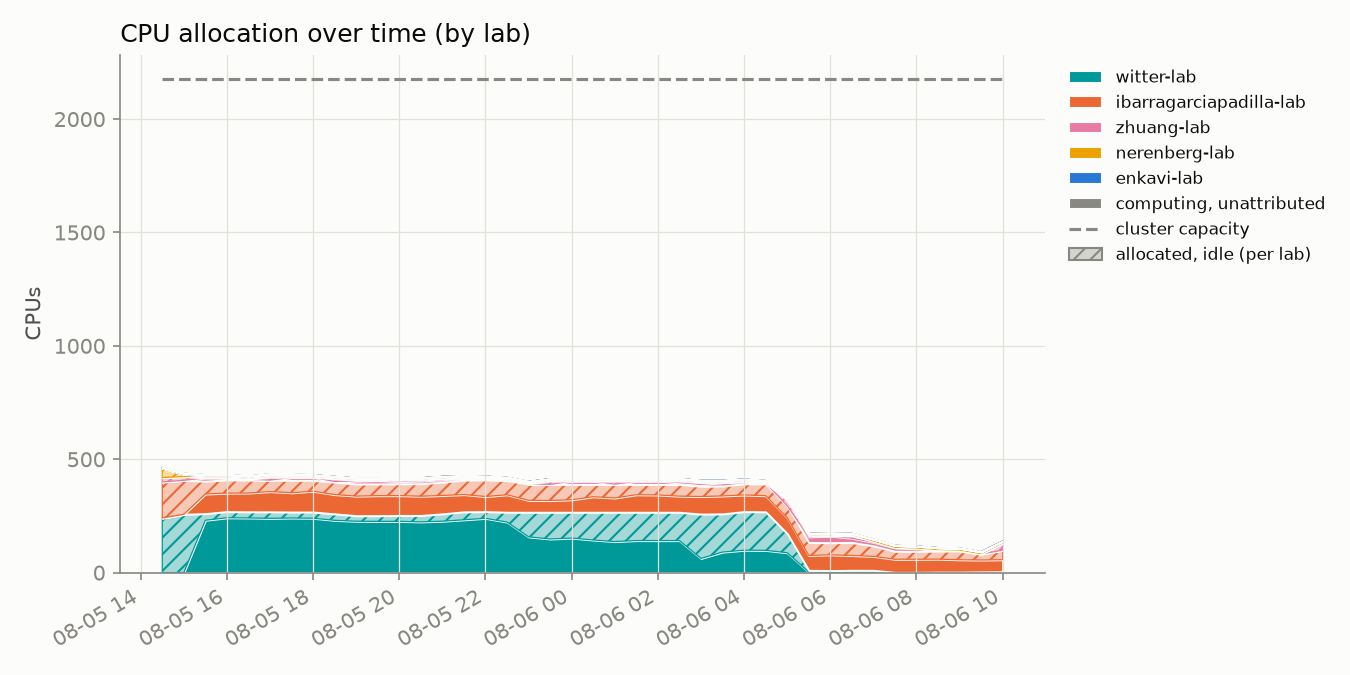
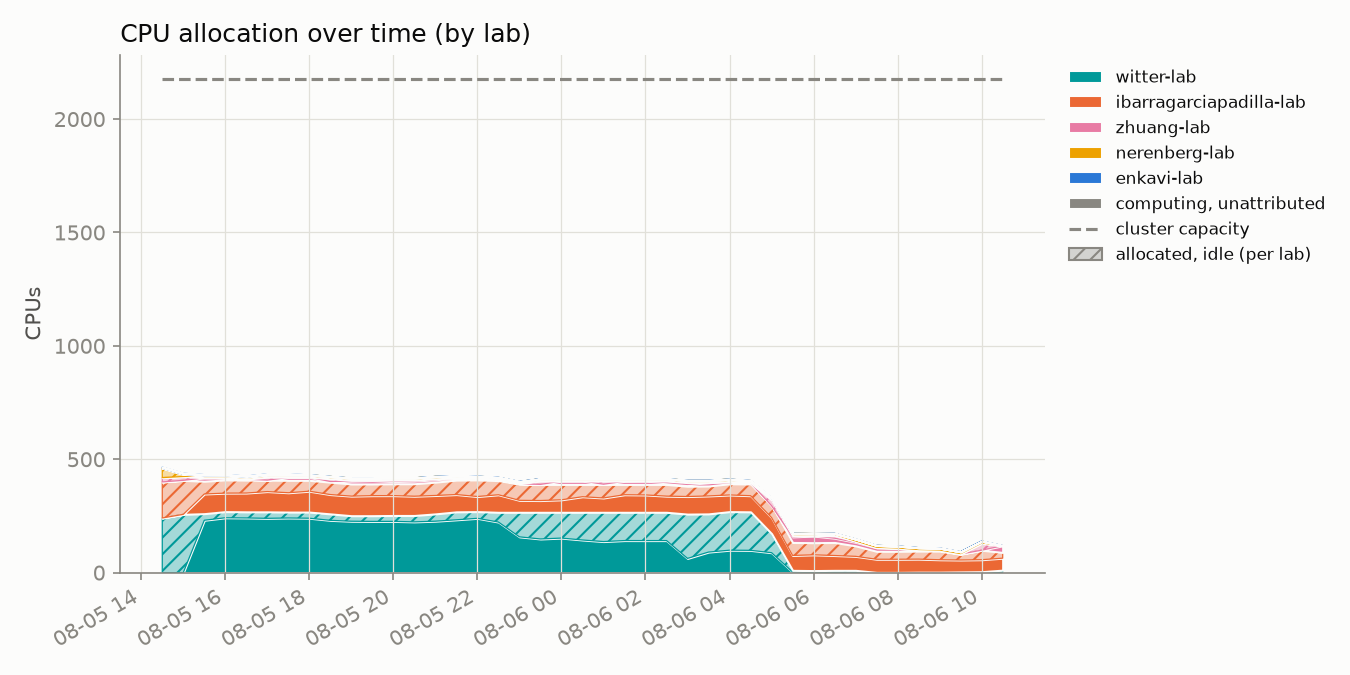
update 2026-08-06T10:30:01-07:00

diff --git a/README.md b/README.md
@@ -2,8 +2,8 @@
 
 Automated GPU/CPU/queue utilization tracker for `hopper.cluster`, updated every 30 minutes by cron. Usernames are anonymized to a stable per-account pseudonym; lab names are real.
 
-Last updated: 2026-08-06T10:00:18-07:00
-Samples: 40 queue snapshots, 40 GPU snapshots
+Last updated: 2026-08-06T10:30:20-07:00
+Samples: 41 queue snapshots, 41 GPU snapshots
 
 ## Resources
 
@@ -16,22 +16,22 @@ Samples: 40 queue snapshots, 40 GPU snapshots
 
 ## Headline
 
-- **71.6%** of the cluster's 60 GPUs allocated, averaged across all samples
-- **38.6%** average `nvidia-smi` utilization *when* a GPU is allocated to a job
-- **81.1%** average cgroup CPU utilization *when* a CPU is allocated to a job
+- **71.5%** of the cluster's 60 GPUs allocated, averaged across all samples
+- **39.4%** average `nvidia-smi` utilization *when* a GPU is allocated to a job
+- **81.4%** average cgroup CPU utilization *when* a CPU is allocated to a job
 
 ## Per lab / per user
 
 <table>
 <tr><th>Lab</th><th>User</th><th align='right'>GPU-hours allocated</th><th align='right'>CPU-hours allocated</th><th align='right'>GPU utilization</th></tr>
 <tr style='background-color:#d8efef'><td>witter-lab</td><td>user-d58f5a15</td><td align='right'>467.5</td><td align='right'>3740.0</td><td align='right'>9%</td></tr>
-<tr style='background-color:#fbebf1'><td>zhuang-lab</td><td>user-0db9ced0</td><td align='right'>286.5</td><td align='right'>286.5</td><td align='right'>48%</td></tr>
-<tr style='background-color:#d8efef'><td>witter-lab</td><td>user-554c620c</td><td align='right'>65.5</td><td align='right'>175.0</td><td align='right'>71%</td></tr>
+<tr style='background-color:#fbebf1'><td>zhuang-lab</td><td>user-0db9ced0</td><td align='right'>301.5</td><td align='right'>301.5</td><td align='right'>49%</td></tr>
+<tr style='background-color:#d8efef'><td>witter-lab</td><td>user-554c620c</td><td align='right'>70.5</td><td align='right'>180.5</td><td align='right'>71%</td></tr>
 <tr style='background-color:#fcf0d8'><td>nerenberg-lab</td><td>user-6bb5f332</td><td align='right'>40.0</td><td align='right'>200.0</td><td align='right'>71%</td></tr>
-<tr style='background-color:#fce8e0'><td>ibarragarciapadilla-lab</td><td>user-3cfc41a3</td><td align='right'>0.0</td><td align='right'>2287.5</td><td align='right'>—</td></tr>
-<tr style='background-color:#fcf0d8'><td>nerenberg-lab</td><td>user-b12dc074</td><td align='right'>0.0</td><td align='right'>16.0</td><td align='right'>—</td></tr>
 <tr style='background-color:#dfeaf8'><td>enkavi-lab</td><td>user-c21bdaa4</td><td align='right'>0.0</td><td align='right'>14.0</td><td align='right'>—</td></tr>
-<tr style='background-color:#fce8e0'><td>ibarragarciapadilla-lab</td><td>user-eec7ffae</td><td align='right'>0.0</td><td align='right'>230.0</td><td align='right'>—</td></tr>
+<tr style='background-color:#fce8e0'><td>ibarragarciapadilla-lab</td><td>user-eec7ffae</td><td align='right'>0.0</td><td align='right'>231.5</td><td align='right'>—</td></tr>
+<tr style='background-color:#fce8e0'><td>ibarragarciapadilla-lab</td><td>user-3cfc41a3</td><td align='right'>0.0</td><td align='right'>2325.0</td><td align='right'>—</td></tr>
+<tr style='background-color:#fcf0d8'><td>nerenberg-lab</td><td>user-b12dc074</td><td align='right'>0.0</td><td align='right'>16.0</td><td align='right'>—</td></tr>
 </table>
 
 (Row background is each lab's chart color, lightened, matching the charts above. GitHub strips inline CSS, so this table renders plain on github.com; the tint shows in renderers that keep inline styles, e.g. a local Markdown preview.)
@@ -44,7 +44,7 @@ Samples: 40 queue snapshots, 40 GPU snapshots
 
 Both charts share the same structure: solid color is *utilized* by lab, translucent + hatched (same color) on top of it is that lab's *allocated but idle*, solid gray above that is usage that couldn't be traced to a job or lab, and the dashed line is total cluster capacity - any gap above it is unallocated headroom. CPU utilization comes from cgroup v2 accounting (`cpu.stat`'s `usage_usec`, cumulative CPU time per job) read directly off each node, since `sstat` returns nothing usable for this on this cluster.
 
-Attribution is cross-referenced two ways: `nvidia-smi`'s own process listing (misses containerized/namespaced processes), backfilled from Slurm's GPU-to-job binding record (`scontrol show job -dd`). The scontrol fallback attributed **1317** GPU readings this run that the process-listing path missed.
+Attribution is cross-referenced two ways: `nvidia-smi`'s own process listing (misses containerized/namespaced processes), backfilled from Slurm's GPU-to-job binding record (`scontrol show job -dd`). The scontrol fallback attributed **1343** GPU readings this run that the process-listing path missed.
 
 ## Queue
 
@@ -56,7 +56,7 @@ Only jobs Slurm is actively scoring for scheduling (has a `sprio` priority) coun
 
 ![CPU usage vs GPU usage, decayed](assets/cpu_gpu_usage.png)
 
-Each point is one user at one snapshot (n=240), not averaged over time, to show how a user's position moves rather than collapsing it to a single number. Both axes are usage decayed with Slurm's own ~7-day fairshare half-life (`PriorityDecayHalfLife` on this cluster), not a lifetime total or a per-day average.
+Each point is one user at one snapshot (n=244), not averaged over time, to show how a user's position moves rather than collapsing it to a single number. Both axes are usage decayed with Slurm's own ~7-day fairshare half-life (`PriorityDecayHalfLife` on this cluster), not a lifetime total or a per-day average.
 
 **CPU usage (x-axis) is essentially what earns priority here; GPU usage (y-axis) is what Slurm could weight the same way but doesn't**: `PriorityWeightTRES` is unset, and partition `main` has no `TRESBillingWeights` configured, so fairshare usage accounting bills by CPU count alone - a job holding 4 GPUs and 8 CPUs accrues the same usage debt as an 8-CPU, no-GPU job. The users worth a second look are in the **upper-left**: low decayed CPU usage (high, unpenalized fairshare priority) paired with high decayed GPU usage.
 
